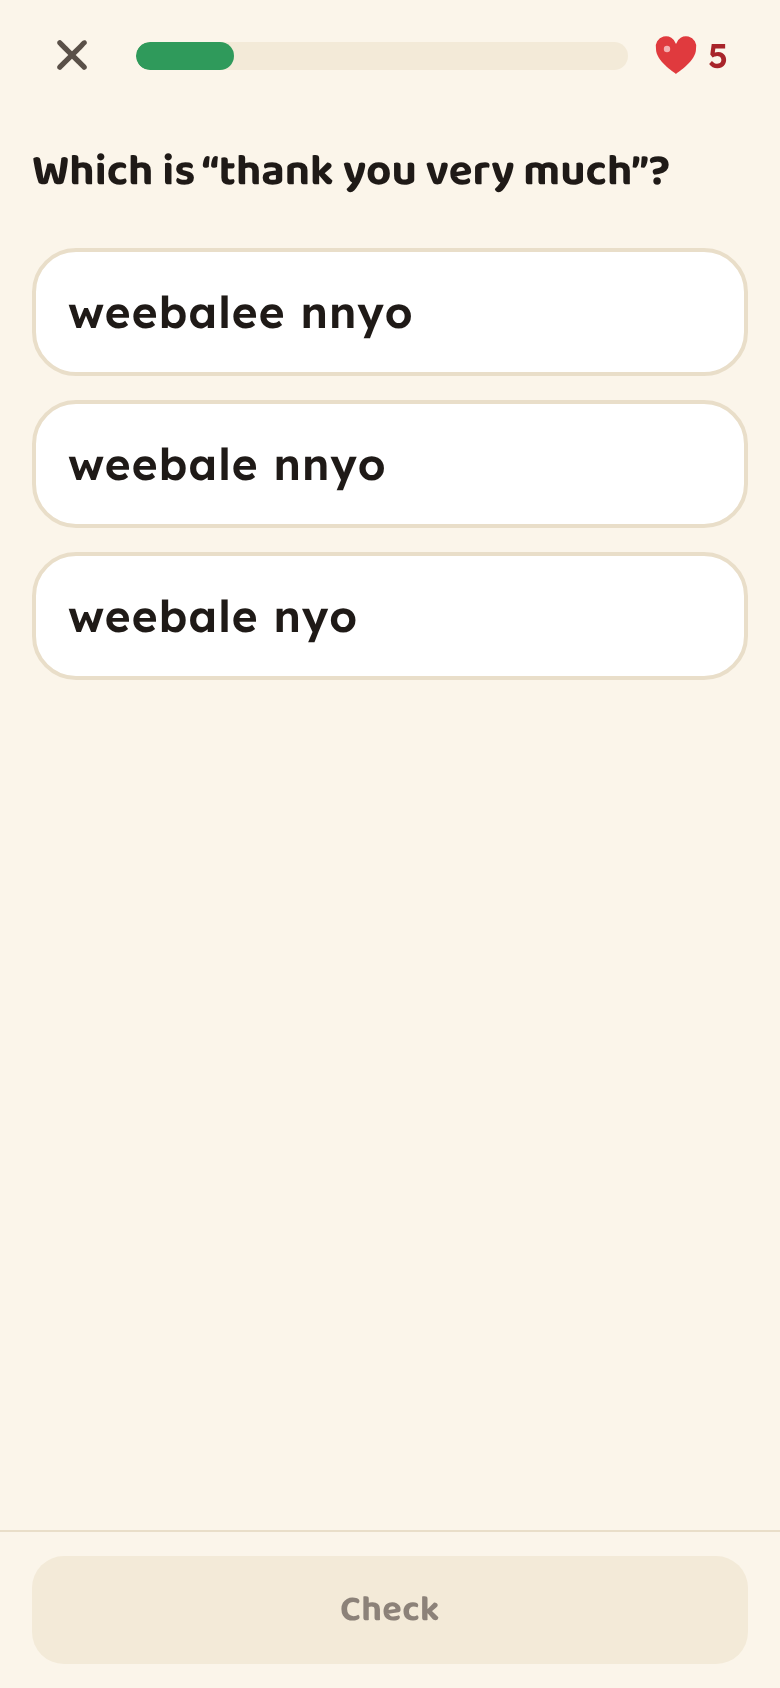
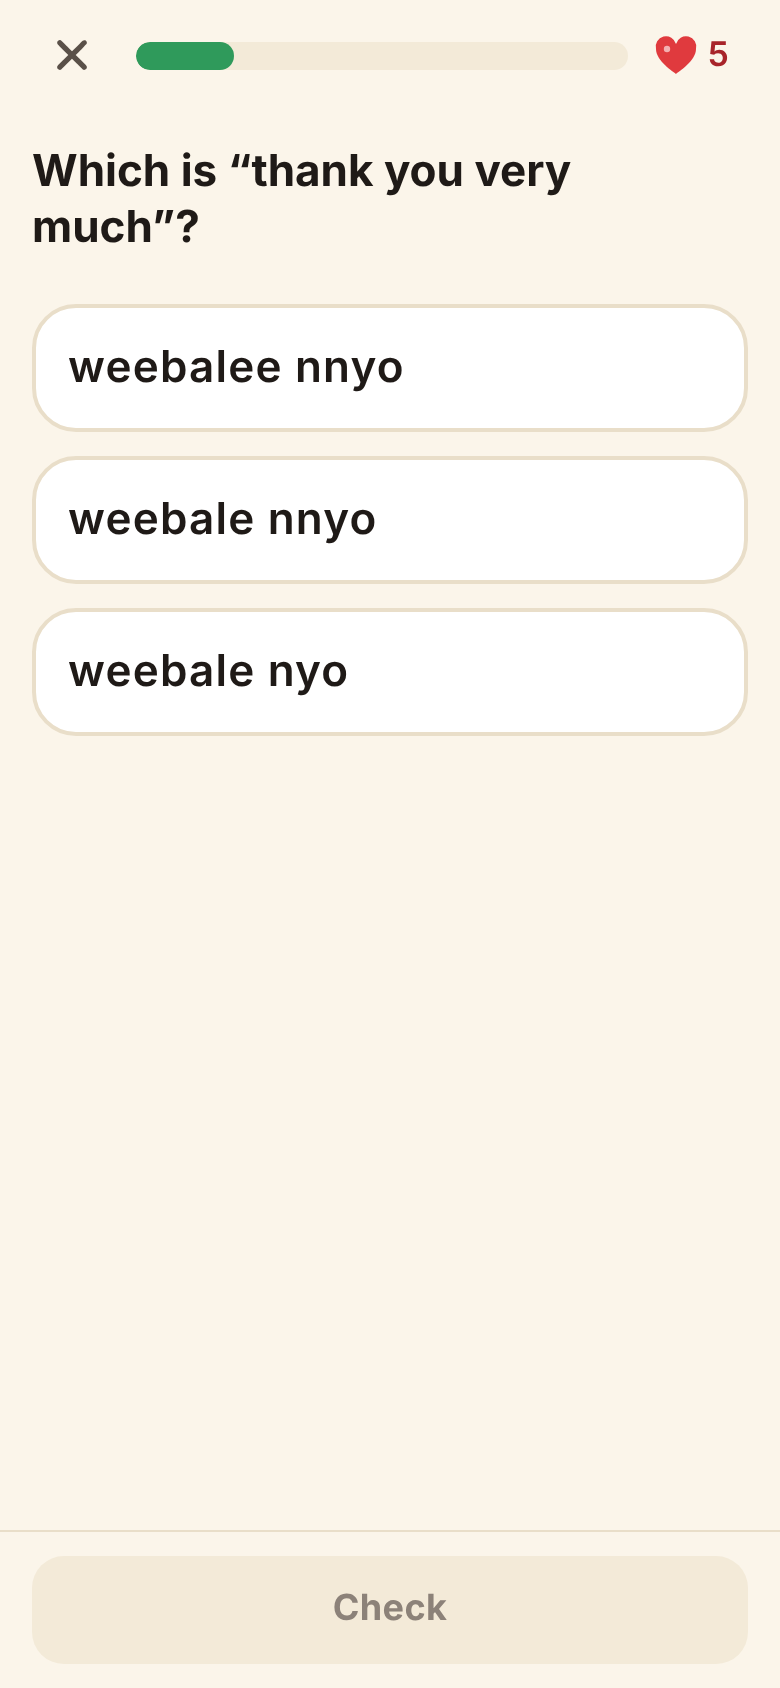
Use the system font (San Francisco on Apple devices)
Replace the bundled Baloo 2 + Lexend fonts with the platform's own UI font:
San Francisco on iPhone, iPad and Mac (and Safari), Roboto on Android,
Segoe UI on Windows. Type tokens now set weights, so styles spread them
(`...F.semi`). On the web the system font stack is named explicitly via
the build-time EXPO_OS value; on native the font family is left unset.

Removes the two @expo-google-fonts packages and the font loading step at
startup. README and screenshots updated.

Claude-Session: https://claude.ai/code/session_01RcUf2rKNTZTGsV2DMPMTBY

Changed region(s): [[0.0308, 0.0924, 0.9846, 0.4313], [0.4923, 0.9242, 0.5538, 0.955], [0.4308, 0.9242, 0.4615, 0.9858]]

diff --git a/src/ui/Txt.tsx b/src/ui/Txt.tsx
@@ -4,18 +4,18 @@ import { C, F } from './theme';
 export type Variant = 'hero' | 'title' | 'h2' | 'h3' | 'body' | 'strong' | 'small' | 'caption' | 'lg' | 'lgBig' | 'label';
 
 const V: Record<Variant, TextStyle> = {
-  hero: { fontFamily: F.display, fontSize: 34, lineHeight: 40, color: C.ink },
-  title: { fontFamily: F.display, fontSize: 28, lineHeight: 34, color: C.ink },
-  h2: { fontFamily: F.heading, fontSize: 22, lineHeight: 28, color: C.ink },
-  h3: { fontFamily: F.heading, fontSize: 18, lineHeight: 23, color: C.ink },
-  body: { fontFamily: F.body, fontSize: 16, lineHeight: 24, color: C.ink },
-  strong: { fontFamily: F.semi, fontSize: 16, lineHeight: 23, color: C.ink },
-  small: { fontFamily: F.body, fontSize: 14, lineHeight: 20, color: C.ink2 },
-  caption: { fontFamily: F.medium, fontSize: 12, lineHeight: 16, color: C.ink2, letterSpacing: 0.3 },
-  label: { fontFamily: F.semi, fontSize: 13, lineHeight: 17, color: C.ink2, letterSpacing: 0.6, textTransform: 'uppercase' },
-  /** Luganda text. Lexend's wide spacing keeps double letters (nn, ŋŋ, ii) easy to see. */
-  lg: { fontFamily: F.semi, fontSize: 20, lineHeight: 27, color: C.ink },
-  lgBig: { fontFamily: F.semi, fontSize: 34, lineHeight: 42, color: C.ink, letterSpacing: 0.5 },
+  hero: { ...F.display, fontSize: 34, lineHeight: 40, color: C.ink },
+  title: { ...F.display, fontSize: 28, lineHeight: 34, color: C.ink },
+  h2: { ...F.heading, fontSize: 22, lineHeight: 28, color: C.ink },
+  h3: { ...F.heading, fontSize: 18, lineHeight: 23, color: C.ink },
+  body: { ...F.body, fontSize: 16, lineHeight: 24, color: C.ink },
+  strong: { ...F.semi, fontSize: 16, lineHeight: 23, color: C.ink },
+  small: { ...F.body, fontSize: 14, lineHeight: 20, color: C.ink2 },
+  caption: { ...F.medium, fontSize: 12, lineHeight: 16, color: C.ink2, letterSpacing: 0.3 },
+  label: { ...F.semi, fontSize: 13, lineHeight: 17, color: C.ink2, letterSpacing: 0.6, textTransform: 'uppercase' },
+  /** Luganda text: a little extra letter spacing keeps double letters (nn, ŋŋ, ii) easy to see. */
+  lg: { ...F.semi, fontSize: 20, lineHeight: 27, color: C.ink },
+  lgBig: { ...F.semi, fontSize: 34, lineHeight: 42, color: C.ink, letterSpacing: 0.5 },
 };
 
 export function Txt({ variant = 'body', style, ...rest }: TextProps & { variant?: Variant }) {

diff --git a/src/app/(tabs)/profile.tsx b/src/app/(tabs)/profile.tsx
@@ -84,7 +84,7 @@ export default function Profile() {
             const isToday = d === today;
             return (
               <View key={d} style={styles.day} accessible accessibilityLabel={`${d}: ${xp} XP`}>
-                <Txt variant="caption" style={[isToday && { color: C.ink, fontFamily: F.semi }]}>
+                <Txt variant="caption" style={[isToday && { color: C.ink, ...F.semi }]}>
                   {letter}
                 </Txt>
                 <View style={[styles.dayDot, xp > 0 && styles.dayOn, isToday && styles.dayToday]}>
@@ -139,7 +139,7 @@ const styles = StyleSheet.create({
   gear: { width: 44, height: 44, borderRadius: 22, backgroundColor: C.card, borderWidth: 1, borderColor: C.line, alignItems: 'center', justifyContent: 'center' },
   tiles: { flexDirection: 'row', flexWrap: 'wrap', gap: S.sm },
   tile: { width: '31.6%', flexGrow: 1, gap: 2, padding: S.md, alignItems: 'flex-start' },
-  tileValue: { fontFamily: F.semi, fontSize: 24, lineHeight: 30, color: C.ink },
+  tileValue: { ...F.semi, fontSize: 24, lineHeight: 30, color: C.ink },
   rowBetween: { flexDirection: 'row', alignItems: 'center', justifyContent: 'space-between' },
   week: { flexDirection: 'row', justifyContent: 'space-between' },
   day: { alignItems: 'center', gap: 4, flex: 1 },
@@ -148,9 +148,9 @@ const styles = StyleSheet.create({
   dayToday: { borderWidth: 2, borderColor: C.ink },
   badges: { flexDirection: 'row', flexWrap: 'wrap', rowGap: S.lg },
   badge: { width: '25%', alignItems: 'center', gap: 6, paddingHorizontal: 2 },
-  badgeText: { textAlign: 'center', color: C.ink, fontFamily: F.semi },
+  badgeText: { textAlign: 'center', color: C.ink, ...F.semi },
   friendRow: { flexDirection: 'row', alignItems: 'center', gap: S.md },
-  rank: { fontFamily: F.heading, fontSize: 18, color: C.sunDeep, width: 18 },
+  rank: { ...F.heading, fontSize: 18, color: C.sunDeep, width: 18 },
   youDot: { width: 38, height: 38, borderRadius: 19, backgroundColor: C.ink, alignItems: 'center', justifyContent: 'center' },
-  youText: { fontFamily: F.heading, fontSize: 18, color: C.sun },
+  youText: { ...F.heading, fontSize: 18, color: C.sun },
 });

diff --git a/src/app/(tabs)/dictionary.tsx b/src/app/(tabs)/dictionary.tsx
@@ -124,20 +124,20 @@ export default function Dictionary() {
 
 const styles = StyleSheet.create({
   search: { flexDirection: 'row', alignItems: 'center', gap: S.sm, backgroundColor: C.card, borderWidth: 1.5, borderColor: C.line, borderRadius: R.md, paddingHorizontal: S.md, minHeight: 50 },
-  input: { flex: 1, fontFamily: F.body, fontSize: 16, color: C.ink, minHeight: 48, outlineWidth: 0 },
+  input: { flex: 1, ...F.body, fontSize: 16, color: C.ink, minHeight: 48, outlineWidth: 0 },
   seg: { flexDirection: 'row', backgroundColor: C.paperDeep, borderRadius: R.md, padding: 4, gap: 4 },
   segBtn: { flex: 1, minHeight: 42, borderRadius: R.sm + 2, alignItems: 'center', justifyContent: 'center' },
   segOn: { backgroundColor: C.ink },
-  segText: { fontFamily: F.semi, fontSize: 15, color: C.ink },
+  segText: { ...F.semi, fontSize: 15, color: C.ink },
   group: { gap: S.sm },
   list: { padding: 0, overflow: 'hidden' },
   row: { flexDirection: 'row', alignItems: 'center', gap: S.sm, paddingHorizontal: S.lg, paddingVertical: S.md, minHeight: 60 },
   rowLine: { borderTopWidth: 1, borderTopColor: C.line },
-  lg: { fontFamily: F.semi, fontSize: 17, color: C.ink },
+  lg: { ...F.semi, fontSize: 17, color: C.ink },
   rootHead: { flexDirection: 'row', alignItems: 'center', gap: S.md },
   form: { backgroundColor: C.ink, borderRadius: R.sm, paddingHorizontal: 12, paddingVertical: 6 },
-  formText: { fontFamily: F.semi, fontSize: 17, color: C.sun },
+  formText: { ...F.semi, fontSize: 17, color: C.sun },
   chips: { flexDirection: 'row', flexWrap: 'wrap', gap: S.sm },
   chip: { paddingHorizontal: 12, minHeight: 38, justifyContent: 'center', borderRadius: R.pill, backgroundColor: C.sunSoft },
-  chipText: { fontFamily: F.semi, fontSize: 14, color: C.sunDeep },
+  chipText: { ...F.semi, fontSize: 14, color: C.sunDeep },
 });

diff --git a/src/ui/Scene.tsx b/src/ui/Scene.tsx
@@ -1,7 +1,7 @@
 import Svg, { Circle, ClipPath, Defs, Ellipse, G, Line, Path, Rect, Text as SvgText } from 'react-native-svg';
 import type { Hue, SceneId } from '../content/types';
 import { NgaaliArt, type NgaaliArtProps } from './Ngaali';
-import { C, F, HUES } from './theme';
+import { C, HUES, SYSTEM_FONT } from './theme';
 
 /** Chapter tile illustrations: Ngaali acting out each chapter's scenario. */
 
@@ -61,7 +61,7 @@ const SCENES: Record<SceneId, Spec> = {
         <Rect x={62} y={14} width={50} height={26} rx={11} fill="#fff" />
         <Path d="M68 38 L76 38 L64 47 Z" fill="#fff" />
         {['a', 'e', 'i', 'o', 'u'].map((v, i) => (
-          <SvgText key={v} x={71 + i * 8.2} y={31.5} fontSize={11.5} fontFamily={F.heading} fill={h.deep} textAnchor="middle">
+          <SvgText key={v} x={71 + i * 8.2} y={31.5} fontSize={11.5} fontFamily={SYSTEM_FONT} fontWeight="700" fill={h.deep} textAnchor="middle">
             {v}
           </SvgText>
         ))}
@@ -149,8 +149,8 @@ const SCENES: Record<SceneId, Spec> = {
     x: 14, y: 22,
     back: (h) => (
       <G>
-        <SvgText x={96} y={44} fontSize={34} fontFamily={F.display} fill={h.base} textAnchor="middle">?</SvgText>
-        <SvgText x={22} y={40} fontSize={18} fontFamily={F.display} fill={h.track} textAnchor="middle">?</SvgText>
+        <SvgText x={96} y={44} fontSize={34} fontFamily={SYSTEM_FONT} fontWeight="800" fill={h.base} textAnchor="middle">?</SvgText>
+        <SvgText x={22} y={40} fontSize={18} fontFamily={SYSTEM_FONT} fontWeight="800" fill={h.track} textAnchor="middle">?</SvgText>
       </G>
     ),
   },

diff --git a/src/ui/theme.ts b/src/ui/theme.ts
@@ -1,3 +1,4 @@
+import type { TextStyle } from 'react-native';
 import type { Hue } from '../content/types';
 
 /**
@@ -48,12 +49,25 @@ export const HUES: Record<Hue, HueSet> = {
   teal: { base: '#13A1A0', soft: '#D5F2F1', deep: '#0C6E6E', track: '#A9E0DE' },
 };
 
+/**
+ * Type: the device's own system font — San Francisco on iPhone, iPad and Mac
+ * (also in Safari), Roboto on Android, Segoe UI on Windows. Nothing is bundled:
+ * on iOS/Android leaving fontFamily unset gives the system font; on the web we
+ * name the system font stack. Styles set the weight, so spread them: `...F.semi`.
+ */
+export const SYSTEM_FONT: string | undefined =
+  process.env.EXPO_OS === 'web'
+    ? 'system-ui, -apple-system, BlinkMacSystemFont, "SF Pro Text", "Segoe UI", Roboto, "Helvetica Neue", Arial, sans-serif'
+    : undefined;
+
+const weight = (fontWeight: TextStyle['fontWeight']): TextStyle => (SYSTEM_FONT ? { fontFamily: SYSTEM_FONT, fontWeight } : { fontWeight });
+
 export const F = {
-  display: 'Baloo2_800ExtraBold',
-  heading: 'Baloo2_700Bold',
-  body: 'Lexend_400Regular',
-  medium: 'Lexend_500Medium',
-  semi: 'Lexend_600SemiBold',
+  display: weight('800'),
+  heading: weight('700'),
+  body: weight('400'),
+  medium: weight('500'),
+  semi: weight('600'),
 } as const;
 
 export const R = { sm: 10, md: 16, lg: 22, xl: 28, pill: 999 } as const;

diff --git a/src/lesson/exercises/Dialogue.tsx b/src/lesson/exercises/Dialogue.tsx
@@ -171,10 +171,10 @@ const styles = StyleSheet.create({
   bubble: { paddingHorizontal: 14, paddingVertical: 10, borderRadius: R.lg, gap: 2, flexShrink: 1 },
   theirs: { backgroundColor: C.card, borderWidth: 1, borderColor: C.line, borderBottomLeftRadius: 6 },
   mine: { backgroundColor: C.ink, borderBottomRightRadius: 6, maxWidth: '85%' },
-  lg: { fontFamily: F.semi, fontSize: 18, lineHeight: 24, color: C.ink },
-  mineTr: { fontFamily: F.body, fontSize: 14, lineHeight: 20, color: '#E9DEC9' },
+  lg: { ...F.semi, fontSize: 18, lineHeight: 24, color: C.ink },
+  mineTr: { ...F.body, fontSize: 14, lineHeight: 20, color: '#E9DEC9' },
   why: { flexDirection: 'row', gap: S.sm, alignItems: 'flex-start', backgroundColor: C.redSoft, padding: S.md, borderRadius: R.md },
   option: { minHeight: 52, borderRadius: R.md, borderWidth: 2, borderColor: C.line, backgroundColor: C.card, paddingHorizontal: S.lg, paddingVertical: 10, justifyContent: 'center' },
   optionWrong: { borderColor: C.redSoft, backgroundColor: C.redSoft },
-  optionText: { fontFamily: F.semi, fontSize: 17, color: C.ink },
+  optionText: { ...F.semi, fontSize: 17, color: C.ink },
 });

diff --git a/src/app/_layout.tsx b/src/app/_layout.tsx
@@ -1,6 +1,3 @@
-import { Baloo2_700Bold, Baloo2_800ExtraBold } from '@expo-google-fonts/baloo-2';
-import { Lexend_400Regular, Lexend_500Medium, Lexend_600SemiBold } from '@expo-google-fonts/lexend';
-import { useFonts } from 'expo-font';
 import { Stack } from 'expo-router';
 import * as SplashScreen from 'expo-splash-screen';
 import { StatusBar } from 'expo-status-bar';
@@ -13,13 +10,7 @@ import { C } from '@/ui/theme';
 SplashScreen.preventAutoHideAsync().catch(() => undefined);
 
 export default function RootLayout() {
-  const [fontsLoaded, fontError] = useFonts({
-    Baloo2_700Bold,
-    Baloo2_800ExtraBold,
-    Lexend_400Regular,
-    Lexend_500Medium,
-    Lexend_600SemiBold,
-  });
+  // No custom fonts to load: the app uses the system font (San Francisco on Apple devices).
   const [hydrated, setHydrated] = useState(() => useApp.persist.hasHydrated());
 
   useEffect(() => {
@@ -28,7 +19,7 @@ export default function RootLayout() {
     return unsub;
   }, []);
 
-  const ready = (fontsLoaded || Boolean(fontError)) && hydrated;
+  const ready = hydrated;
 
   useEffect(() => {
     if (!ready) return;

diff --git a/src/app/chapter/[id].tsx b/src/app/chapter/[id].tsx
@@ -170,10 +170,10 @@ const styles = StyleSheet.create({
   section: { gap: S.sm },
   row: { flexDirection: 'row', alignItems: 'center', gap: S.md, padding: S.md, backgroundColor: C.card, borderRadius: R.lg, borderWidth: 1, borderColor: C.line, minHeight: 64 },
   dot: { width: 40, height: 40, borderRadius: 20, alignItems: 'center', justifyContent: 'center' },
-  replay: { fontFamily: F.semi, fontSize: 13, color: C.ink2 },
+  replay: { ...F.semi, fontSize: 13, color: C.ink2 },
   chips: { flexDirection: 'row', flexWrap: 'wrap', gap: S.sm },
   chip: { paddingHorizontal: 14, paddingVertical: 8, borderRadius: R.pill, minHeight: 40, justifyContent: 'center' },
-  chipText: { fontFamily: F.semi, fontSize: 15 },
+  chipText: { ...F.semi, fontSize: 15 },
   lockedCard: { flexDirection: 'row', alignItems: 'center', gap: S.md },
   tipHead: { flexDirection: 'row', alignItems: 'center', gap: S.md },
 });

diff --git a/src/app/onboarding.tsx b/src/app/onboarding.tsx
@@ -105,6 +105,6 @@ const styles = StyleSheet.create({
   lang: { flex: 1, flexDirection: 'row', alignItems: 'center', gap: S.md, padding: S.md, borderRadius: R.md, borderWidth: 2, borderColor: C.line, backgroundColor: C.card },
   langOn: { borderColor: C.ink },
   code: { width: 40, height: 32, borderRadius: 8, backgroundColor: C.paperDeep, alignItems: 'center', justifyContent: 'center' },
-  codeText: { fontFamily: F.heading, fontSize: 15, color: C.ink },
-  input: { fontFamily: F.medium, fontSize: 18, color: C.ink, backgroundColor: C.card, borderWidth: 2, borderColor: C.line, borderRadius: R.md, paddingHorizontal: S.lg, minHeight: 54 },
+  codeText: { ...F.heading, fontSize: 15, color: C.ink },
+  input: { ...F.medium, fontSize: 18, color: C.ink, backgroundColor: C.card, borderWidth: 2, borderColor: C.line, borderRadius: R.md, paddingHorizontal: S.lg, minHeight: 54 },
 });

diff --git a/src/app/settings.tsx b/src/app/settings.tsx
@@ -132,7 +132,7 @@ const styles = StyleSheet.create({
   seg: { flexDirection: 'row', backgroundColor: C.paperDeep, borderRadius: R.md, padding: 4, gap: 4 },
   segBtn: { flex: 1, minHeight: 44, borderRadius: R.sm + 2, alignItems: 'center', justifyContent: 'center' },
   segOn: { backgroundColor: C.ink },
-  segText: { fontFamily: F.semi, fontSize: 15, color: C.ink },
-  input: { fontFamily: F.medium, fontSize: 17, color: C.ink, backgroundColor: C.card, borderWidth: 1.5, borderColor: C.line, borderRadius: R.md, paddingHorizontal: S.lg, minHeight: 52 },
+  segText: { ...F.semi, fontSize: 15, color: C.ink },
+  input: { ...F.medium, fontSize: 17, color: C.ink, backgroundColor: C.card, borderWidth: 1.5, borderColor: C.line, borderRadius: R.md, paddingHorizontal: S.lg, minHeight: 52 },
   switchRow: { flexDirection: 'row', alignItems: 'center', gap: S.md, minHeight: 44 },
 });

diff --git a/src/ui/Button.tsx b/src/ui/Button.tsx
@@ -68,7 +68,7 @@ const styles = StyleSheet.create({
   base: { minHeight: 54, borderRadius: R.md, alignItems: 'center', justifyContent: 'center', paddingHorizontal: 20 },
   small: { minHeight: 42, paddingHorizontal: 14, borderRadius: R.sm + 2 },
   row: { flexDirection: 'row', alignItems: 'center', gap: 8 },
-  label: { fontFamily: F.heading, fontSize: 18, lineHeight: 22, letterSpacing: 0.2 },
+  label: { ...F.heading, fontSize: 18, lineHeight: 22, letterSpacing: 0.2 },
   smallLabel: { fontSize: 15, lineHeight: 19 },
   disabled: { backgroundColor: C.paperDeep, borderColor: C.paperDeep },
   pressed: { transform: [{ scale: 0.97 }], opacity: 0.92 },

diff --git a/src/lesson/LessonPlayer.tsx b/src/lesson/LessonPlayer.tsx
@@ -232,7 +232,7 @@ const styles = StyleSheet.create({
   bar: { flex: 1, height: 14, borderRadius: R.pill, backgroundColor: C.paperDeep, overflow: 'hidden' },
   fillBar: { height: 14, borderRadius: R.pill, backgroundColor: C.leaf },
   hearts: { flexDirection: 'row', alignItems: 'center', gap: 4, minWidth: 48 },
-  heartsText: { fontFamily: F.semi, fontSize: 17, color: C.redDeep },
+  heartsText: { ...F.semi, fontSize: 17, color: C.redDeep },
   practiceTag: { backgroundColor: C.leafSoft, paddingHorizontal: 10, paddingVertical: 4, borderRadius: R.pill },
   stage: { flex: 1 },
   sheetRow: { flexDirection: 'row', alignItems: 'center', gap: S.md },
